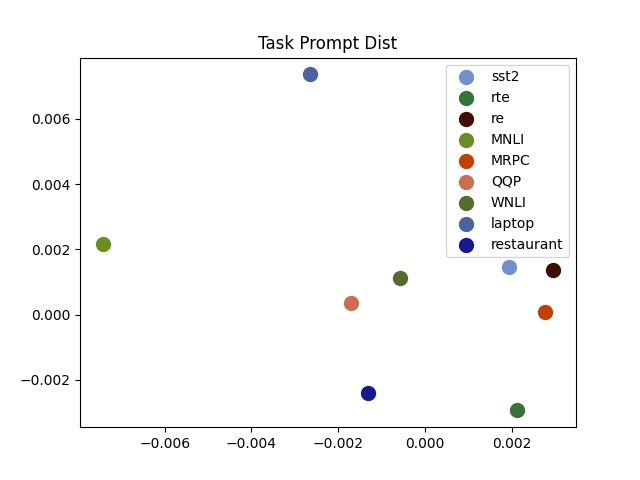
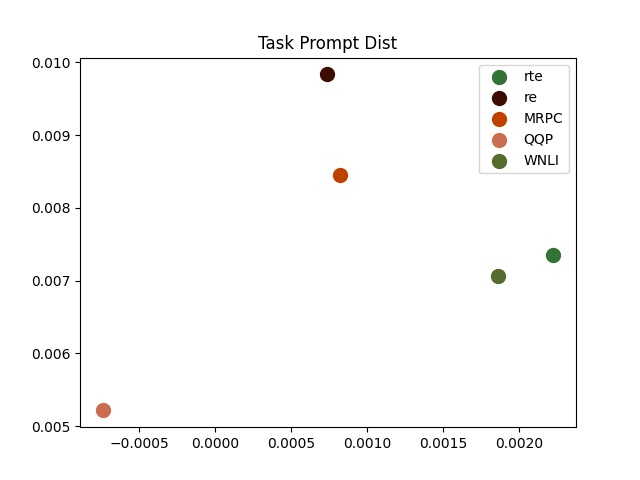
update

diff --git a/draw_cuda_taskprompt.py b/draw_cuda_taskprompt.py
@@ -366,8 +366,8 @@ print("===================")
 
 ##3D or 2D
 dim=2
-#compressed_prompt_emb = train_AE(input=all_prompt_emb,out_features=dim)
-compressed_prompt_emb = PCA_svd(X=all_prompt_emb,k=dim)
+compressed_prompt_emb = train_AE(input=all_prompt_emb,out_features=dim)
+#compressed_prompt_emb = PCA_svd(X=all_prompt_emb,k=dim)
 print(compressed_prompt_emb.shape)
 #exit()
 
@@ -385,7 +385,8 @@ task_map={0:"sst2",1:"rte",2:"re",3:"MNLI",4:"MRPC",5:"QNLI",6:"QQP",7:"WNLI",8:
 
 color_map={0:"#728FCE",1:"#347235",2:"#3D0C02",3:"#6B8E23",4:"#C04000",5:"QNLI",6:"#CB6D51",7:"#556B2F",8:"STSB",9:"#4863A0",10:"#151B8D"}
 
-blocked_list = [5,8]
+#blocked_list = [5,8]
+blocked_list = [5,8,0,9,10,3]
 
 #re generate id
 #plot on 3D: https://www.delftstack.com/zh-tw/howto/matplotlib/scatter-plot-legend-in-matplotlib/#%25E5%259C%25A8-matplotlib-3d-%25E6%2595%25A3%25E9%25BB%259E%25E5%259C%2596%25E4%25B8%258A%25E6%2596%25B0%25E5%25A2%259E%25E5%259C%2596%25E4%25BE%258B
